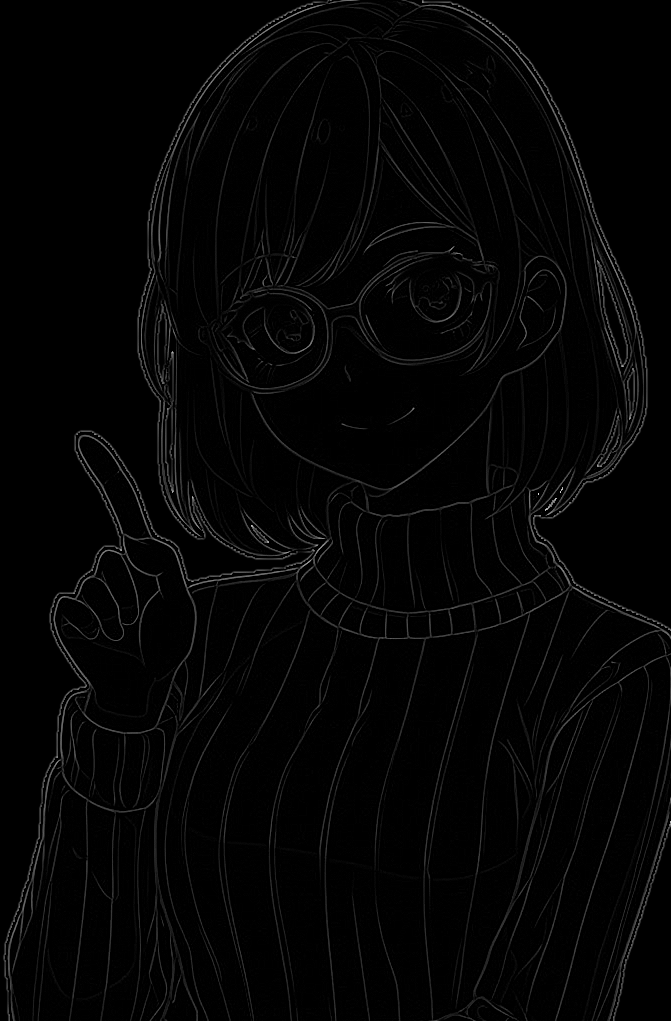
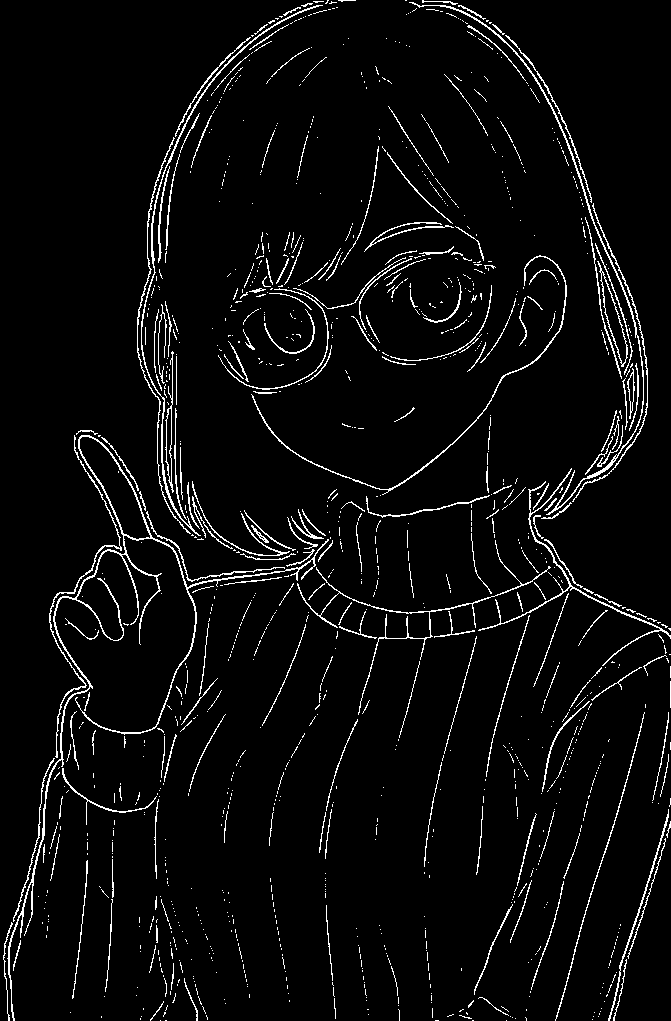
fix

diff --git a/python/opencv/filter2d/LoG/sample01.py b/python/opencv/filter2d/LoG/sample01.py
@@ -1,12 +1,16 @@
 #-*- coding:utf-8 -*-
 import cv2 as cv
 
-def LoG(gray, ksize, sigma):
+def LoG(gray, ksize, sigma, threshold):
     # Gaussianフィルタで画像をぼかす
     blurred = cv.GaussianBlur(gray, (ksize, ksize), sigma)
 
     # Laplacianフィルタを適用
     log = cv.Laplacian(blurred, cv.CV_64F)
+
+    # 二値化処理
+    _, binary = cv.threshold(log, threshold, 255, cv.THRESH_BINARY)
+    return binary
 
     return log
 
@@ -17,7 +21,7 @@ img = cv.imread('C:/github/sample/python/opencv/filter2d/LoG/input.png')
 gray = cv.cvtColor(img, cv.COLOR_RGB2GRAY)
 
 # LoGフィルタの適用
-log_img = LoG(gray, 3, 1.0)
+log_img = LoG(gray, 3, 1.0, 30)
 
 # 結果を保存
 cv.imwrite('C:/github/sample/python/opencv/filter2d/LoG/output.png', log_img)
